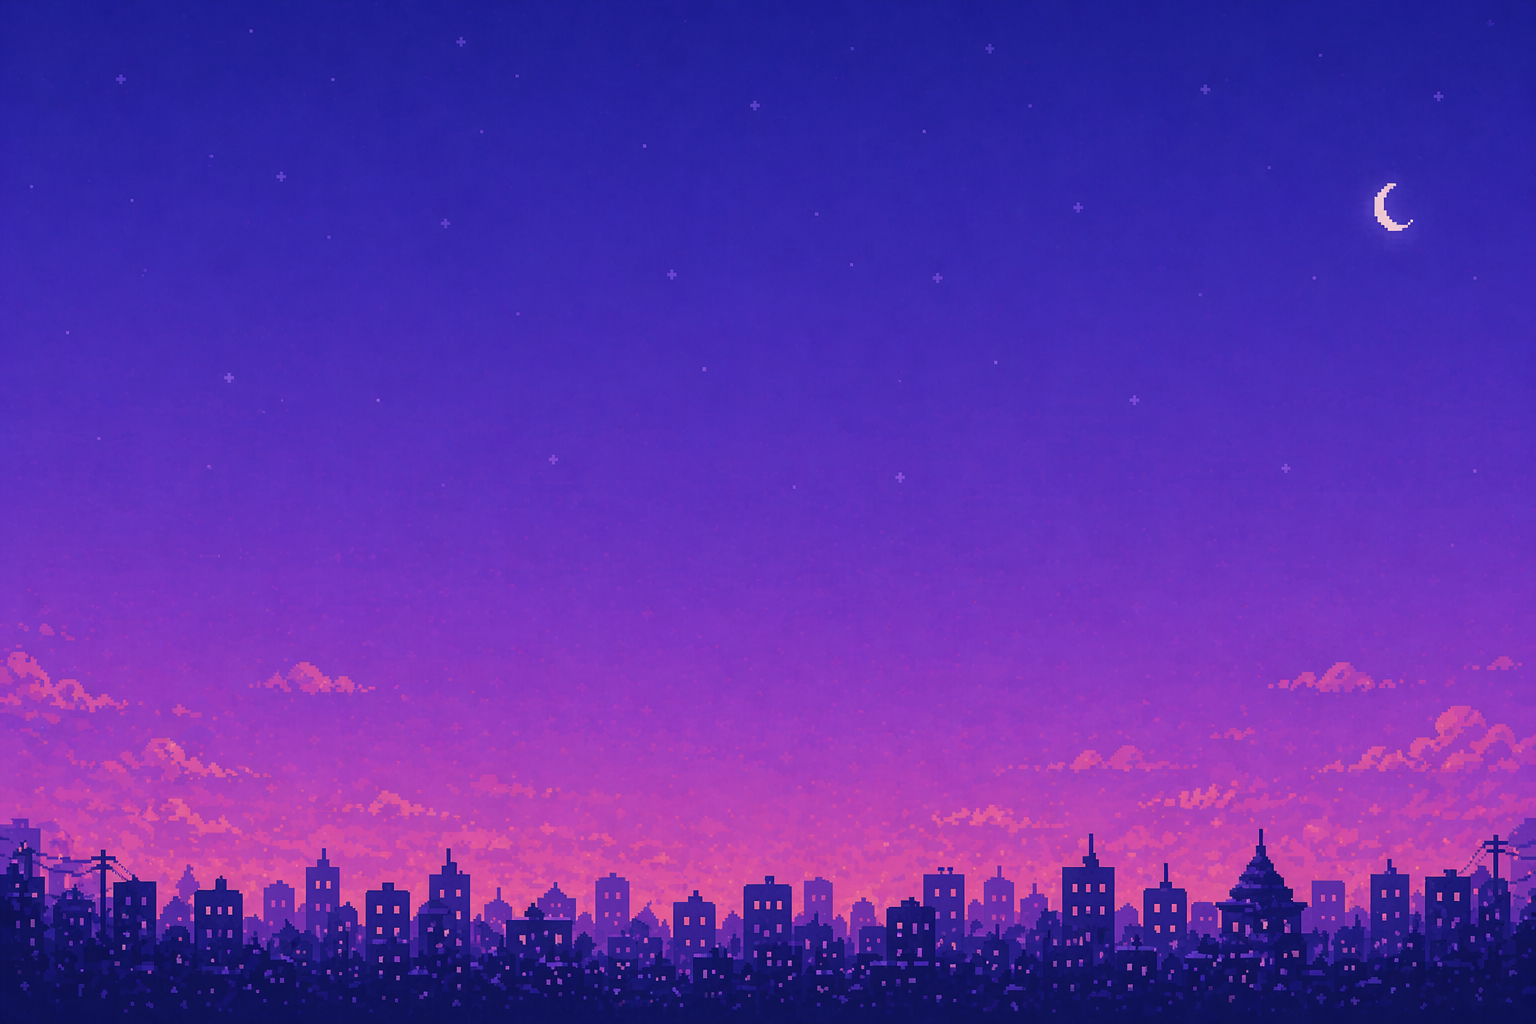
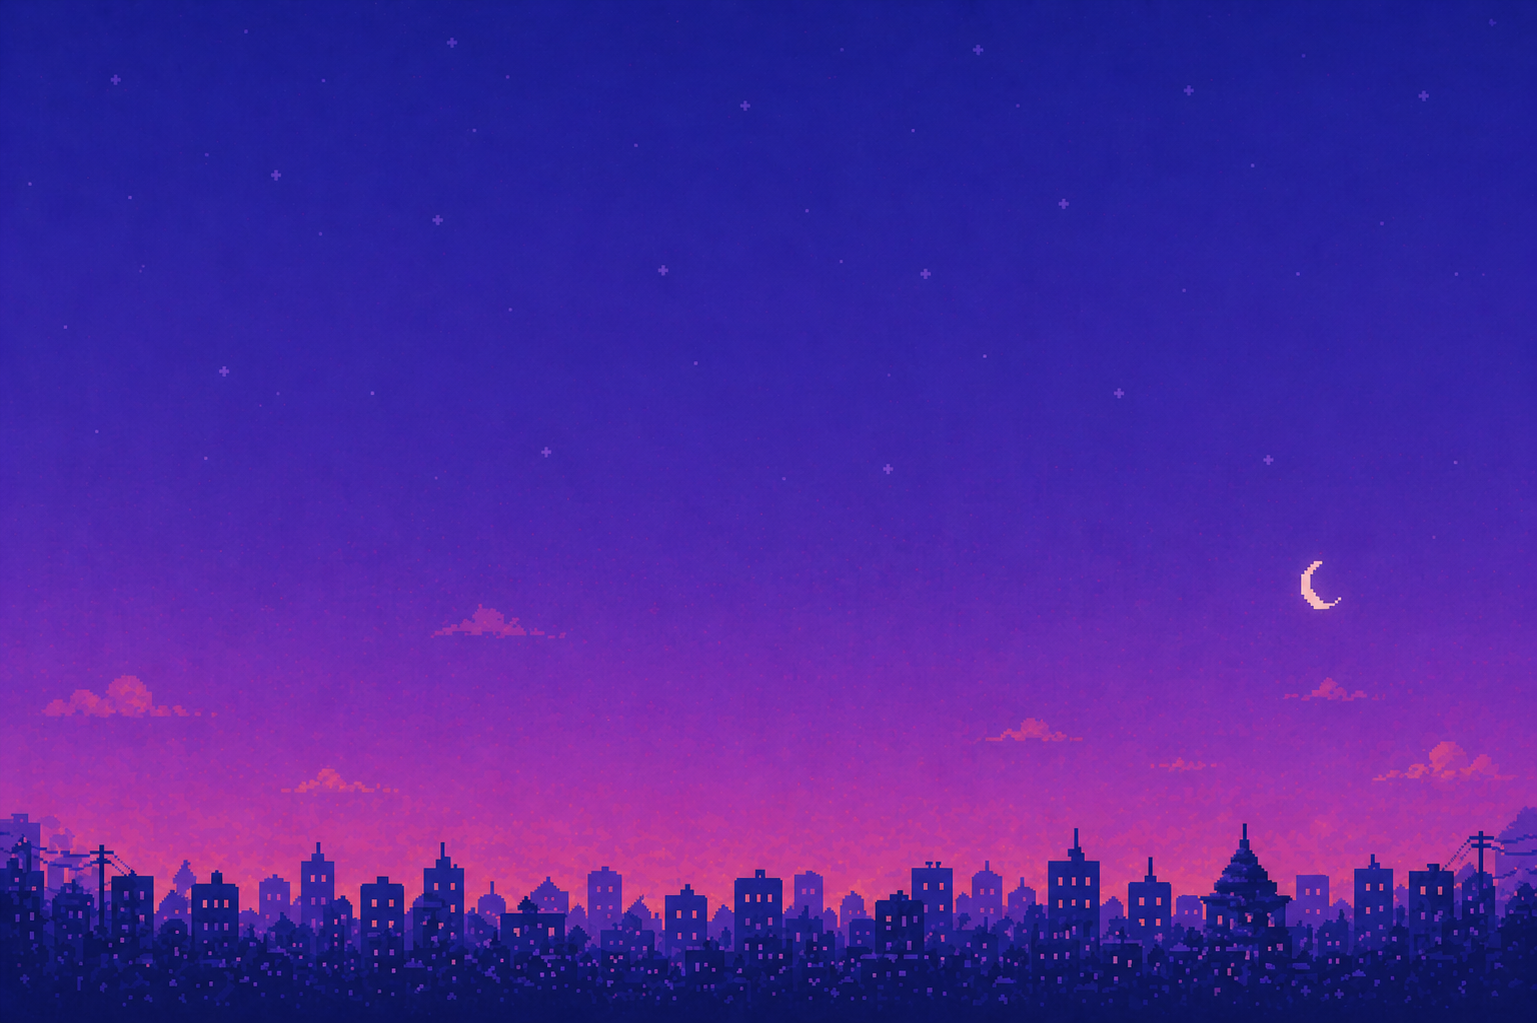
aligned the background image properly

diff --git a/style.css b/style.css
@@ -17,7 +17,7 @@ body {
 body {
   background-image: url("assets/light-mode.png");
   background-repeat: no-repeat;
-  background-position: center;
+  background-position: bottom;
   background-size: cover;
 
   /* Vertically + horizontally center everything */
@@ -84,25 +84,41 @@ body {
   background-color: #fdf6e3;
   border: 4px solid #4a3f7a;
   border-bottom: none;
-  padding: 30px 40px 24px;
+  padding: 25px 40px 24px;
   min-height: 400px;
   display: flex;
   flex-direction: column;
   gap: 0;
 }
 
-.paper-form p {
-  font-size: 20px;
+.paper-form label {
+  display: flex;
+  gap: 5px;
+  font-size: 25px;
+  color: #3a3040;
+  margin-bottom: 10px;
+}
+
+#recipient {
+  font-size: 25px;
   color: #3a3040;
   margin-bottom: 14px;
+  display: flex;
+  font-family: "VT323", monospace;
+  border: none;
+  border-line: none;
+  background: none;
+  outline: none;
+  resize: none;
+  caret-color: #6b5fa6;
 }
 
 /* Dashed separator line */
 .paper-form::after {
   content: "";
   display: block;
-  border-top: 2px dashed #e8b4b8;
-  margin: 0 -30px; /* bleed to edges */
+  border-top: 3px dashed #e8b4b8;
+  margin: 0 -10px; /* bleed to edges */
   position: relative;
   top: -6px;
   order: 1; /* sits between greeting and textarea */
@@ -112,7 +128,7 @@ body {
 
 .letter-body {
   font-family: "VT323", monospace;
-  font-size: 18px;
+  font-size: 22px;
   color: #3a3040;
   background: transparent;
   border: none;
@@ -120,9 +136,9 @@ body {
   resize: none;
   width: 100%;
   flex: 1;
-  min-height: 280px;
-  line-height: 2;
-  padding-top: 20px;
+  min-height: 300px;
+  line-height: 1.5;
+  padding-top: 8px;
   order: 2;
   caret-color: #6b5fa6;
 
@@ -169,7 +185,7 @@ body {
   display: block;
 }
 
-/*footer8*/
+/*footer*/
 
 footer {
   display: flex;

diff --git a/index.html b/index.html
@@ -22,7 +22,8 @@
 
         <!-- Paper form -->
         <div class="paper-form">
-            <p>Dear Achiee, </p>
+            <label for="writer">Dear  <input id="recipient" placeholder="Self,"></label>
+           
             <textarea
                 class="letter-body"
                 placeholder="Write your thoughts here..."
